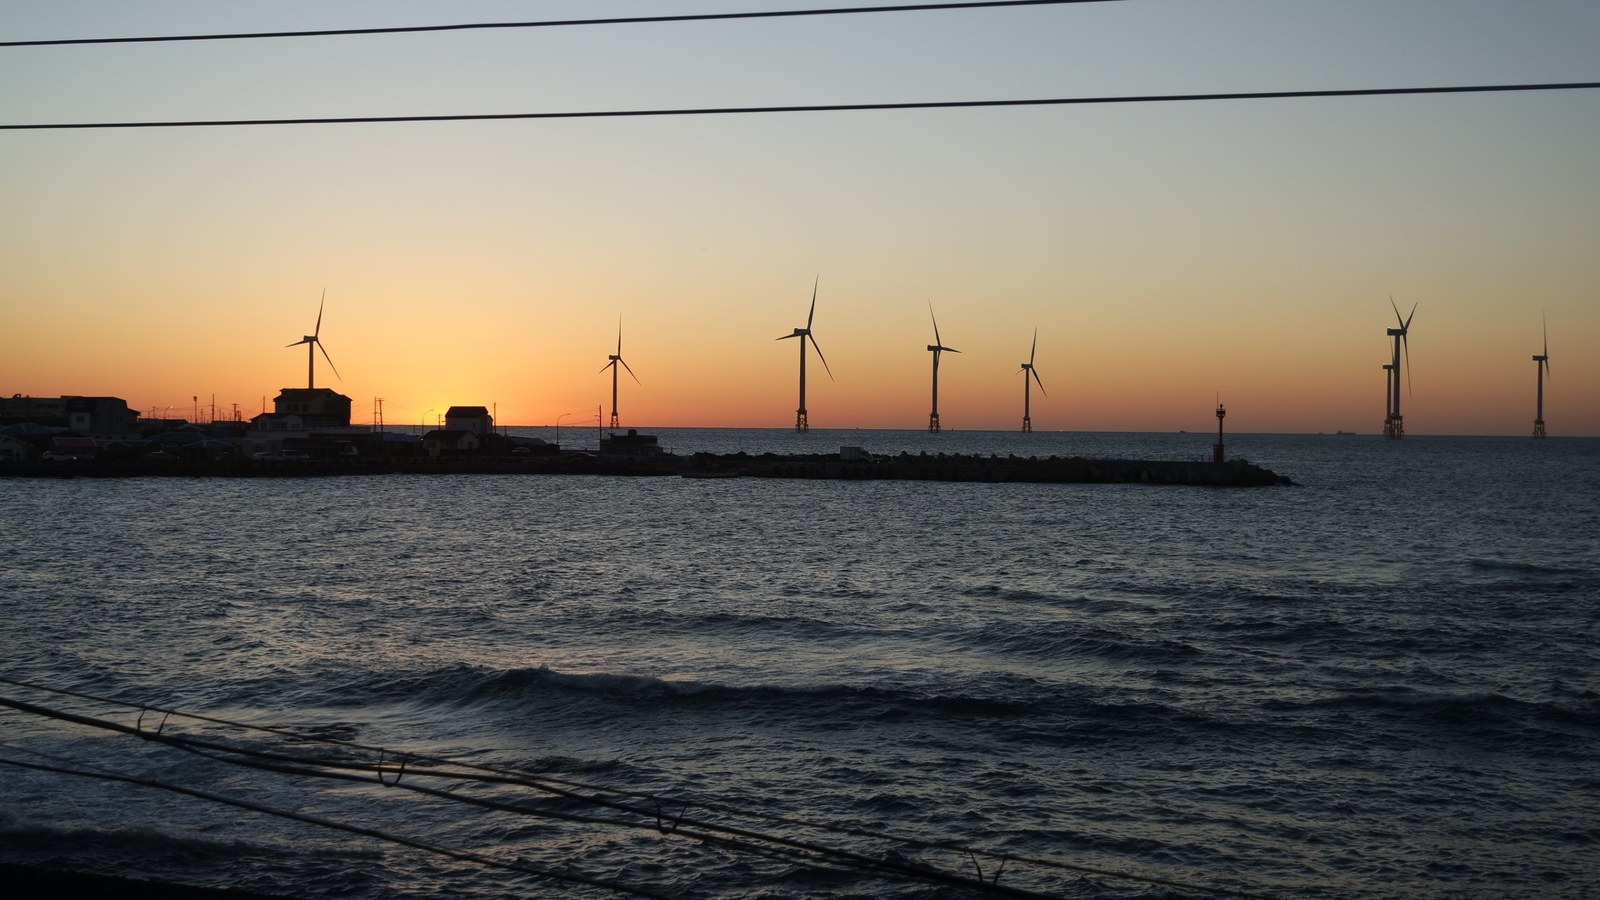
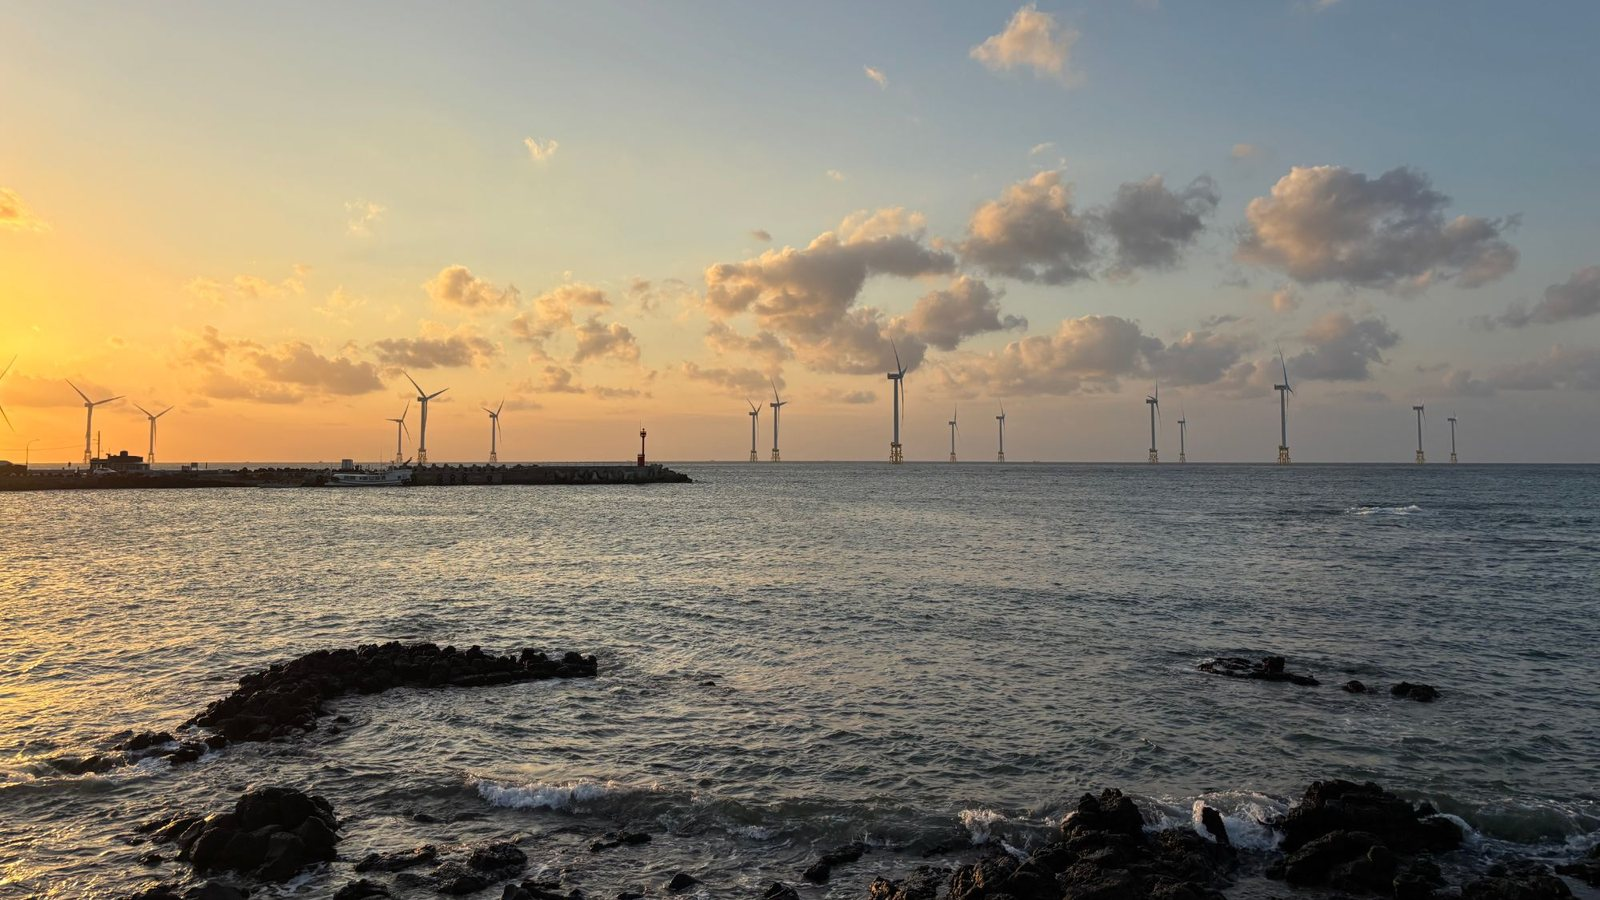
인터뷰 기사 사진 4장 교체: 엠아이티도그 장소 2곳·석양, 파랑오브레코즈샵 서우봉
- 엠아이티도그 PLACE 해변 산책·짧은 오름: 빈 사진 자리에 사용자가 준 사진
- 엠아이티도그 CHAPTER 02 석양 사진 교체 (?v=2)
- 파랑오브레코즈샵 CHAPTER 03: 서우봉 사진으로 교체, 설명 글도 서우봉으로 (?v=2)
- credits.txt에 새 사진 기록 (촬영자 확인 필요)

diff --git a/public/articles/emily.html b/public/articles/emily.html
@@ -105,7 +105,7 @@
         <p>“힘들 때 차를 몰고 가서 석양도 보고, 바다도 보고, 올레길도 걸었어요. 자연이 가까이 있다는 게 마음에 위안을 많이 줬던 것 같아요.”</p>
         <p>그가 정착한 곳은 한림이었다. 부모님이 먼저 자리 잡은 곳이라는 이유가 가장 컸다. 자연 가까이에서 조금 더 한가롭게 살아보고 싶은 마음도 있었다.</p>
         <figure class="figure">
-          <img src="../images/interview-04-photo-1.jpg" alt="해 질 녘 방파제 너머 바다 위로 풍력발전기가 늘어선 한림의 석양 풍경" width="1600" height="900" loading="lazy">
+          <img src="../images/interview-04-photo-1.jpg?v=2" alt="해 질 녘 방파제 너머 바다 위로 풍력발전기가 늘어서고 앞쪽에 검은 현무암이 드러난 한림의 석양 풍경" width="1600" height="900" loading="lazy">
           <figcaption>해 질 녘 한림 바다의 석양 · 사진 원예은</figcaption>
         </figure>
         <p class="typing">그렇게 한림은 부모님을 돌보는 곳이자, 자신의 일을 이어가는 곳이 됐다. 에밀리는 이곳에서 반려견 트레이닝 센터의 문을 열었다.</p>
@@ -171,8 +171,8 @@
             <div class="isle-window">
               <ul class="isle-track" tabindex="0" aria-label="장소 사진, 왼쪽·오른쪽 화살표 키로 넘기기" aria-roledescription="슬라이드">
               <li class="isle-slide is-current" data-name="월령 선인장마을" data-sub="반려견과 걷는 산책길" data-desc="에밀리가 반려견과 함께 산책하러 찾는 한림의 마을입니다. 자연 가까이에서 반려견과 걸을 수 있는 산책 코스입니다." data-credit="본 저작물은 '한국농어촌공사'에서 '2022년' 작성하여 공공누리 제1유형으로 개방한 '바다를 따라 만나는 선인장 군락지'를 이용하였으며, 해당 저작물은 '한국농어촌공사, 웰촌(www.welchon.com)'에서 무료로 내려받으실 수 있습니다." aria-label="1 / 3 월령 선인장마을"><img src="../images/interview-04-place-1.jpg" alt="검은 현무암과 선인장 사이로 바다를 향해 이어지는 나무 산책로와 안내판" width="939" height="528"><!-- 출처: 한국농어촌공사 웰촌 · 공공누리 제1유형(출처표시) (credits.txt 참고) --></li>
-              <li class="isle-slide" data-name="해변 산책" data-sub="바다를 곁에 두고 걷는 시간" data-desc="에밀리가 반려견과 함께 걷는 해변입니다. 제주의 바다는 힘들었던 시간에도 그에게 위안이 되어준 풍경입니다." aria-label="2 / 3 해변 산책"><span class="isle-empty">해변 사진 자리 · 16:9</span><!-- <img src="../images/interview-04-place-2.jpg" alt="사진 설명" width="1600" height="900"> --></li>
-              <li class="isle-slide" data-name="짧은 오름" data-sub="가볍게 오르는 산책길" data-desc="에밀리가 반려견과 함께 걷는 짧은 오름입니다. 자연 가까이에서 반려견과 보내는 산책 시간입니다." aria-label="3 / 3 짧은 오름"><span class="isle-empty">오름 사진 자리 · 16:9</span><!-- <img src="../images/interview-04-place-3.jpg" alt="사진 설명" width="1600" height="900"> --></li>
+              <li class="isle-slide" data-name="해변 산책" data-sub="바다를 곁에 두고 걷는 시간" data-desc="에밀리가 반려견과 함께 걷는 해변입니다. 제주의 바다는 힘들었던 시간에도 그에게 위안이 되어준 풍경입니다." aria-label="2 / 3 해변 산책"><img src="../images/interview-04-place-2.jpg" alt="검은 현무암 바위가 늘어선 해안 길 옆 정자와 바다 위로 늘어선 풍력발전기" width="1600" height="900"></li>
+              <li class="isle-slide" data-name="짧은 오름" data-sub="가볍게 오르는 산책길" data-desc="에밀리가 반려견과 함께 걷는 짧은 오름입니다. 자연 가까이에서 반려견과 보내는 산책 시간입니다." aria-label="3 / 3 짧은 오름"><img src="../images/interview-04-place-3.jpg" alt="밧줄 울타리가 이어진 오름 산책길 옆으로 펼쳐진 푸른 바다" width="1500" height="844"></li>
               </ul>
             </div>
             <img class="isle-frame" src="../images/jeju-frame-gate.webp" alt="" width="820" height="503">

diff --git a/public/articles/parang-of-records.html b/public/articles/parang-of-records.html
@@ -136,9 +136,9 @@
         <p>그는 연동과 용담을 거쳐 지금은 서귀포시 강정동에 2년 넘게 살고 있다. 용담은 해안도로를 따라 달리며 생각을 정리하기 좋은 곳으로 꼽았다. 현재 사는 강정동은 정비가 잘돼 있어 깨끗하고 생활하기 편하다고 했다.</p>
         <p>출근길에 힘이 들면 오름이나 한라산 쪽으로 길을 틀어 풍경을 보고 가기도 한다. 일을 하고 집으로 돌아오는 일상 속에도 제주에서 누리는 시간이 있다.</p>
         <figure class="figure">
-          <!-- 임시 사진: 제주의 해안 풍경(촬영자 황예원, 임시). 장소 이름 미확인. 임하람 작가의 출근길 오름·한라산 풍경이나 강정동 모습을 받으면 교체 -->
-          <img src="../images/interview-03-photo-4.jpg" alt="구름이 펼쳐진 하늘 아래 물이 고인 검은 현무암 해안과 멀리 숲이 우거진 언덕" width="1600" height="900" loading="lazy">
-          <figcaption>물이 고인 검은 현무암 해안 위로 구름이 펼쳐진 제주의 풍경 · 사진 황예원</figcaption>
+          <!-- 서우봉 사진 (사용자가 준 사진으로 교체, 2026-10-23). 전에는 임시 사진(물이 고인 검은 현무암 해안, 촬영자 황예원). 촬영자 확인 필요 -->
+          <img src="../images/interview-03-photo-4.jpg?v=2" alt="풀이 우거진 서우봉 언덕 아래로 하얀 모래 해변과 옥빛 바다가 펼쳐진 풍경" width="1600" height="900" loading="lazy">
+          <figcaption>서우봉 아래 하얀 모래 해변과 바다</figcaption>
         </figure>
       </section>
 

diff --git a/CLAUDE.md b/CLAUDE.md
@@ -340,6 +340,11 @@ ijejumin-webzine/
     - 같은 이름이라 휴대폰 캐시 때문에 기사의 사진 주소 끝에 `?v=2`를 붙였다. 또 같은 이름으로 바꾸면 숫자를 올린다
     - 바로 전에는 예전 사진(1600×900, 가슴 위로 가깝게 찍힘)의 위쪽을 흐리게 200px 늘린 `interview-03-cover-tall.jpg`로 인물을 약 82%로 줄였었다 ("좀만 더 축소").
       새 사진으로 필요 없어져 그 파일은 지웠다(커밋 기록에 남음). 만들던 도구 `reference/tools/make-cover-tall.py`는 남겨 두었다
+- 사용자가 준 사진으로 바꾼 자리 (2026-10-23, 4:3 사진을 16:9로 잘라 300KB 이하 JPG)
+  - 엠아이티도그 PLACE '해변 산책' `interview-04-place-2.jpg`(1600×900), '짧은 오름' `interview-04-place-3.jpg`(1500×844). 전에는 빈 사진 자리였다
+  - 엠아이티도그 CHAPTER 02 석양 `interview-04-photo-1.jpg?v=2` (설명 '해 질 녘 한림 바다의 석양 · 사진 원예은'은 그대로)
+  - 파랑오브레코즈샵 CHAPTER 03 `interview-03-photo-4.jpg?v=2` → 서우봉 사진. 설명은 '서우봉 아래 하얀 모래 해변과 바다' (촬영자를 몰라 '· 사진 OOO'은 아직 없음)
+  - 네 장 모두 촬영자는 `credits.txt`에 [확인 필요]
 - 기사 속 인터뷰 영상(`#interview-video`, `.video-card`)은 페이지를 열면 그 자리에 바로 YouTube 플레이어로 뜬다 (사용자 요청 2026-10-23)
   - 재생 버튼을 한 번 누르면 바로 재생된다. 전에는 썸네일 카드를 누르면 플레이어를 불러왔는데, 휴대폰에서는 멈춘 채 떠서 한 번 더 눌러야 했다
   - 스크롤해서 영상 자리가 화면에 반 이상 보이면 **소리 없이 저절로 재생**하고, 거의 다 벗어나면 멈춘다 (사용자 요청 "YouTube 썸네일 말고 영상 화면", 2026-10-23)
